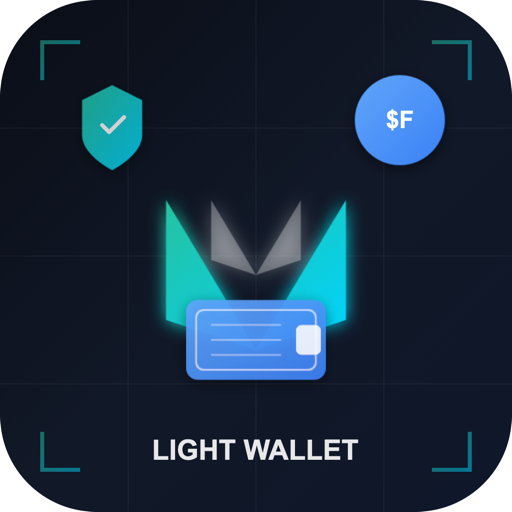
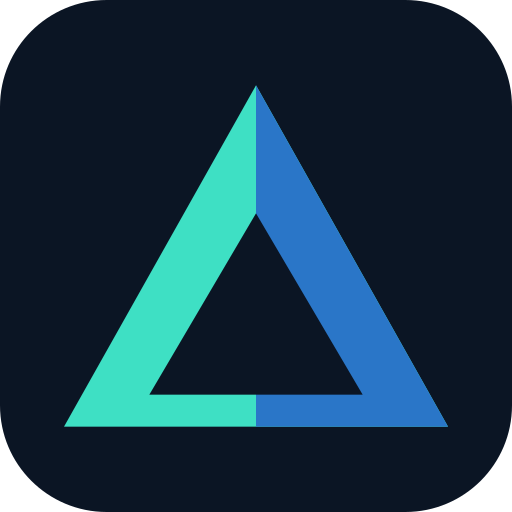
One brand mark, and stop ambushing people with a modal
Four different logos claimed to be the brand: a circle-with-checkmark in the
sidebar (which reads "verified", not "wallet"), a prism on the unlock screen, a
wallet/shield/badge composite in the app icon, and a hand-drawn bullseye that
shipped whenever the .icns was missing. The prism is the only one that survives
reduction, so it is now the mark everywhere — sidebar, unlock screen, favicon
and app icon share one geometry, defined once and reused.

The sidebar glow was a circle sized for the old round logo; it is a drop-shadow
that follows the actual silhouette now. The magenta subtitle was half of a
two-colour identity that no longer exists, so it uses the text ramp.

Added favicon.svg (and .ico) so the tab mark is crisp at any size and the
browser stops 404ing on every load.

The version on the unlock screen said 1.0.5 from a hardcoded constant. It comes
from config/binaries.json via /api/status like every other version now.

The first-run guide was a full-screen modal that appeared one second after
unlock, over the balance the user had just come to see, and blocked every click
until dismissed — to explain what a privacy coin is. It is still one click away
in the sidebar, where someone who wants it will look.

diff --git a/src/js/app.js b/src/js/app.js
@@ -5,7 +5,10 @@
 // ============================================
 // Version and Auto-Update
 // ============================================
-const APP_VERSION = '1.0.5';
+// Placeholder only. The real value comes from config/binaries.json via
+// GET /api/status and is written into the DOM by applyServerVersion().
+// Do not hardcode a version here — that is how four of them disagreed.
+let APP_VERSION = '—';
 const GITHUB_REPO = 'vsnation/Beam-Light-Wallet';
 const GITHUB_API_URL = `https://api.github.com/repos/${GITHUB_REPO}/releases/latest`;
 
@@ -1126,6 +1129,19 @@ document.querySelectorAll('.nav-item[data-page]').forEach(item => {
         showPage(page);
     });
 });
+
+/**
+ * Take the app version from the server, which reads it from
+ * config/binaries.json. The welcome screen renders before this arrives, so any
+ * already-painted version label is patched in place.
+ */
+function applyServerVersion(status) {
+    if (!status || !status.version) return;
+    APP_VERSION = status.version;
+    document.querySelectorAll('.welcome-version, [data-app-version]').forEach(el => {
+        el.textContent = 'v' + APP_VERSION;
+    });
+}
 
 /** Hide anything whose feature flag is off. */
 function applyFeatureFlags() {
@@ -3885,6 +3901,7 @@ async function checkServerStatus() {
             const status = await response.json();
             lastServerStatus = status; // Store for sync status display
             updateConsensusBanner(status.consensus);
+            applyServerVersion(status);
             return status;
         }
         return null;
@@ -4092,15 +4109,15 @@ function showLockedOverlay(message) {
                     -webkit-text-fill-color: transparent;
                 }
                 .welcome-subtitle {
-                    font-size: 11px;
-                    color: #da70d6;
+                    font-size: 12px;
+                    color: var(--text-secondary, #94a3b8);
                     letter-spacing: 3px;
                     text-transform: uppercase;
                     margin-bottom: 6px;
                 }
                 .welcome-tagline {
                     font-size: 13px;
-                    color: #64748b;
+                    color: var(--text-muted, #8b98ab);
                 }
                 /* Card container */
                 .welcome-card {
@@ -4385,21 +4402,29 @@ function showLockedOverlay(message) {
                     <div class="welcome-brand">
                         <div class="welcome-logo-container">
                             <div class="welcome-logo-glow"></div>
-                            <svg class="welcome-logo" viewBox="0 0 200 200" fill="none" xmlns="http://www.w3.org/2000/svg">
+                            <!-- Same geometry as the sidebar mark and the app icon:
+                                 one mark, not three variations on a theme. The
+                                 pink overlay and the third inner triangle are gone
+                                 — they muddied the silhouette at small sizes. -->
+                            <svg class="welcome-logo" viewBox="0 0 48 48" fill="none" xmlns="http://www.w3.org/2000/svg" role="img" aria-label="BEAM">
                                 <defs>
-                                    <linearGradient id="beamCyan" x1="0%" y1="0%" x2="100%" y2="100%">
-                                        <stop offset="0%" stop-color="#00e6d0"/>
-                                        <stop offset="100%" stop-color="#00bfff"/>
+                                    <linearGradient id="wlFaceL" x1="0" y1="0" x2="1" y2="1">
+                                        <stop offset="0%" stop-color="#4ff5d0"/>
+                                        <stop offset="100%" stop-color="#1aa8cf"/>
                                     </linearGradient>
-                                    <linearGradient id="beamPink" x1="0%" y1="0%" x2="100%" y2="100%">
-                                        <stop offset="0%" stop-color="#da70d6"/>
-                                        <stop offset="100%" stop-color="#9370db"/>
+                                    <linearGradient id="wlFaceR" x1="1" y1="0" x2="0" y2="1">
+                                        <stop offset="0%" stop-color="#2f7fd4"/>
+                                        <stop offset="100%" stop-color="#1c3f7a"/>
+                                    </linearGradient>
+                                    <linearGradient id="wlBeam" x1="0" y1="0" x2="0" y2="1">
+                                        <stop offset="0%" stop-color="#7dfbe4" stop-opacity="0.9"/>
+                                        <stop offset="100%" stop-color="#7dfbe4" stop-opacity="0"/>
                                     </linearGradient>
                                 </defs>
-                                <polygon points="100,25 170,135 30,135" fill="url(#beamCyan)"/>
-                                <polygon points="100,55 145,135 55,135" fill="#0a1628"/>
-                                <polygon points="100,85 125,130 75,130" fill="url(#beamCyan)" opacity="0.6"/>
-                                <polygon points="30,135 55,135 100,55 100,25" fill="url(#beamPink)" opacity="0.3"/>
+                                <polygon points="24,6 44,42 4,42"  fill="url(#wlFaceL)"/>
+                                <polygon points="24,6 44,42 24,42" fill="url(#wlFaceR)"/>
+                                <polygon points="24,17.9 35.8,39.4 12.2,39.4" fill="#0a1420"/>
+                                <polygon points="24,6 27,13 21,13" fill="url(#wlBeam)"/>
                             </svg>
                         </div>
                         <div class="welcome-title">BEAM</div>
@@ -5528,10 +5553,11 @@ document.addEventListener('DOMContentLoaded', async () => {
         }, 30000);
     }
 
-    // Show guide for first-time users
-    if (!localStorage.getItem('guideShown')) {
-        setTimeout(showGuide, 1000);
-    }
+    // The guide no longer ambushes people one second after they unlock. It was
+    // a full-screen modal explaining what a privacy coin is, shown over the
+    // balance they had just come to look at, and it had to be dismissed before
+    // anything could be clicked. It is still one click away from the sidebar's
+    // "Help & Guide" button, which is where someone who wants it will look.
 });
 
 // Current asset for send modal

diff --git a/src/index.html b/src/index.html
@@ -5,6 +5,8 @@
     <meta name="viewport" content="width=device-width, initial-scale=1.0">
     <title>BEAM Light Wallet</title>
     <link rel="icon" type="image/png" sizes="256x256" href="/icon-256.png">
+    <!-- SVG first: modern browsers scale it crisply at any tab size. -->
+    <link rel="icon" type="image/svg+xml" href="/favicon.svg">
     <link rel="icon" type="image/png" sizes="64x64" href="/favicon.png">
     <link rel="apple-touch-icon" sizes="192x192" href="/icon-192.png">
     <link rel="manifest" href="/manifest.json">
@@ -39,15 +41,30 @@
         <!-- Sidebar -->
         <aside class="sidebar">
             <div class="sidebar-logo">
-                <svg viewBox="0 0 40 40" fill="none">
-                    <circle cx="20" cy="20" r="18" stroke="url(#logo-gradient)" stroke-width="2" fill="none"/>
-                    <path d="M12 20L18 26L28 14" stroke="url(#logo-gradient)" stroke-width="2.5" stroke-linecap="round" stroke-linejoin="round" fill="none"/>
+                <!-- The one brand mark. Four different logos used to claim to be
+                     it: this slot held a circle-with-checkmark (which reads
+                     "verified", not "wallet"), the unlock screen had a prism, the
+                     app icon had a wallet/shield/badge composite, and a generated
+                     bullseye shipped whenever the .icns was missing. The prism is
+                     the only one that survives reduction, so it is the mark.
+                     Defined once here and reused via <use href="#beam-mark">. -->
+                <svg viewBox="0 0 48 48" fill="none" class="beam-mark" role="img" aria-label="BEAM">
                     <defs>
-                        <linearGradient id="logo-gradient" x1="0" y1="0" x2="40" y2="40">
-                            <stop offset="0%" stop-color="#25c2a0"/>
-                            <stop offset="100%" stop-color="#00d4ff"/>
+                        <linearGradient id="beam-face-l" x1="0" y1="0" x2="1" y2="1">
+                            <stop offset="0%" stop-color="#4ff5d0"/>
+                            <stop offset="100%" stop-color="#1aa8cf"/>
                         </linearGradient>
+                        <linearGradient id="beam-face-r" x1="1" y1="0" x2="0" y2="1">
+                            <stop offset="0%" stop-color="#2f7fd4"/>
+                            <stop offset="100%" stop-color="#1c3f7a"/>
+                        </linearGradient>
+                        <g id="beam-mark">
+                            <polygon points="24,6 44,42 4,42"    fill="url(#beam-face-l)"/>
+                            <polygon points="24,6 44,42 24,42"   fill="url(#beam-face-r)"/>
+                            <polygon points="24,17.9 35.8,39.4 12.2,39.4" fill="var(--void, #050a0f)"/>
+                        </g>
                     </defs>
+                    <use href="#beam-mark"/>
                 </svg>
             </div>
 

diff --git a/src/css/styles.css b/src/css/styles.css
@@ -119,14 +119,11 @@
             height: 100%;
         }
 
-        .sidebar-logo::after {
-            content: '';
-            position: absolute;
-            inset: -4px;
-            border-radius: 50%;
-            background: var(--beam-cyan);
-            opacity: 0.2;
-            filter: blur(8px);
+        /* The glow used to be a circle behind a circular checkmark logo. The
+           mark is a prism now, so a round halo sits visibly wrong around it —
+           a drop-shadow follows the actual silhouette instead. */
+        .sidebar-logo svg {
+            filter: drop-shadow(0 0 10px rgba(37, 194, 160, 0.35));
         }
 
         .sidebar-nav {

diff --git a/serve.py b/serve.py
@@ -1358,7 +1358,7 @@ class WalletProxyHandler(SimpleHTTPRequestHandler):
             self.handle_p2p_get_reputation()
         elif self.path.startswith("/api/p2p/feedbacks"):
             self.handle_p2p_get_feedbacks()
-        elif self.path in ('/favicon.png', '/manifest.json', '/icon-192.png', '/icon-512.png'):
+        elif self.path in ('/favicon.png', '/favicon.svg', '/favicon.ico', '/manifest.json', '/icon-192.png', '/icon-512.png'):
             # Serve PWA assets from src/ directory
             self.path = "/src" + self.path
             super().do_GET()
